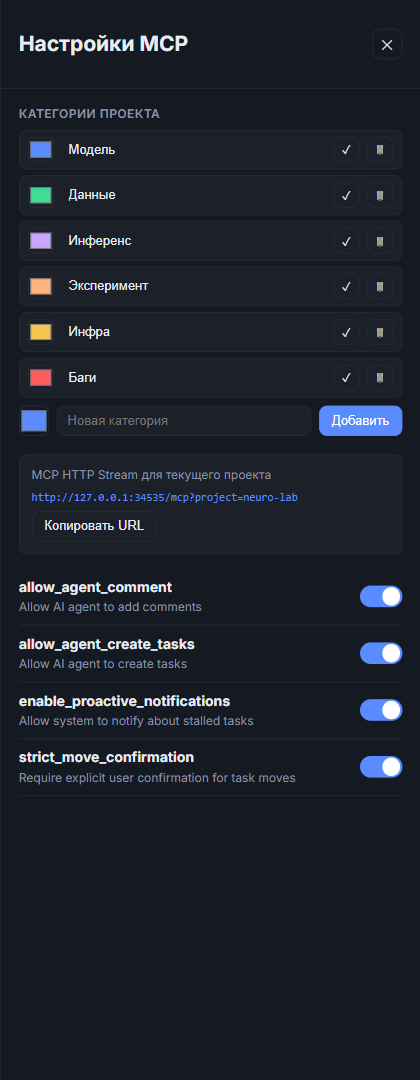
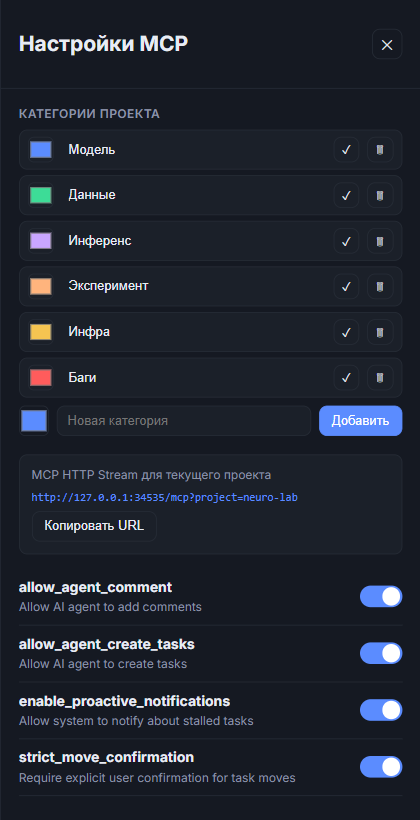
Tidy README screenshots and lightweight wording

diff --git a/README.md b/README.md
@@ -21,7 +21,7 @@
 
 ## Три вещи, вокруг которых всё построено
 
-| 🧠 Фокус на нейросети | 👤 Один человек | 🪶 Легковесность |
+| 🧠 Фокус на нейросети | 👤 Один человек | ⚡ Легковесность |
 |---|---|---|
 | Данные, обучение, квантизация, инференс, eval и эксперименты. Агенты берут рутину, владелец принимает результат. | Нет команд, ролей, спринтов и согласований. Есть один владелец и столько агентов, сколько он сам подключит. | Один процесс, один файл SQLite, 6 Python-зависимостей. Без Docker, Redis, Node-сборки и облака. |
 
@@ -69,7 +69,7 @@
 ### MCP-настройки проекта
 
 <p align="center">
-  <img src="docs/screenshots/mcp.png" width="380" alt="Настройки MCP: URL проекта, категории и разрешения для агентов">
+  <img src="docs/screenshots/mcp.png" width="360" alt="Настройки MCP: URL проекта, категории и разрешения для агентов">
 </p>
 
 ## Быстрый старт
@@ -170,7 +170,7 @@ http://127.0.0.1:34535/mcp?project=neuro-lab
 | Доски и категории | `get_boards`, `create_board`, `rename_board`, `delete_board`, `get_categories`, `create_category`, `rename_category`, `delete_category` |
 | Опасные операции | `delete_task`, `archive_task` — только с `user_explicitly_approved=true` |
 
-Агент видит очередь работы, читает комментарии владельца, пишет отчёт, отмечает критерии с evidence — но не может молча удалить задачу или протащить её через стадию проверки.
+Агент видит очередь работы, читает комментарии владельца, пишет отчёт, отмечает критерии с evidence — но не может молча удалить задачу или протащить её через стадию проверки. Флаг `user_explicitly_approved=true` также нужен для удаления доски или категории.
 
 ## Как это работает
 
